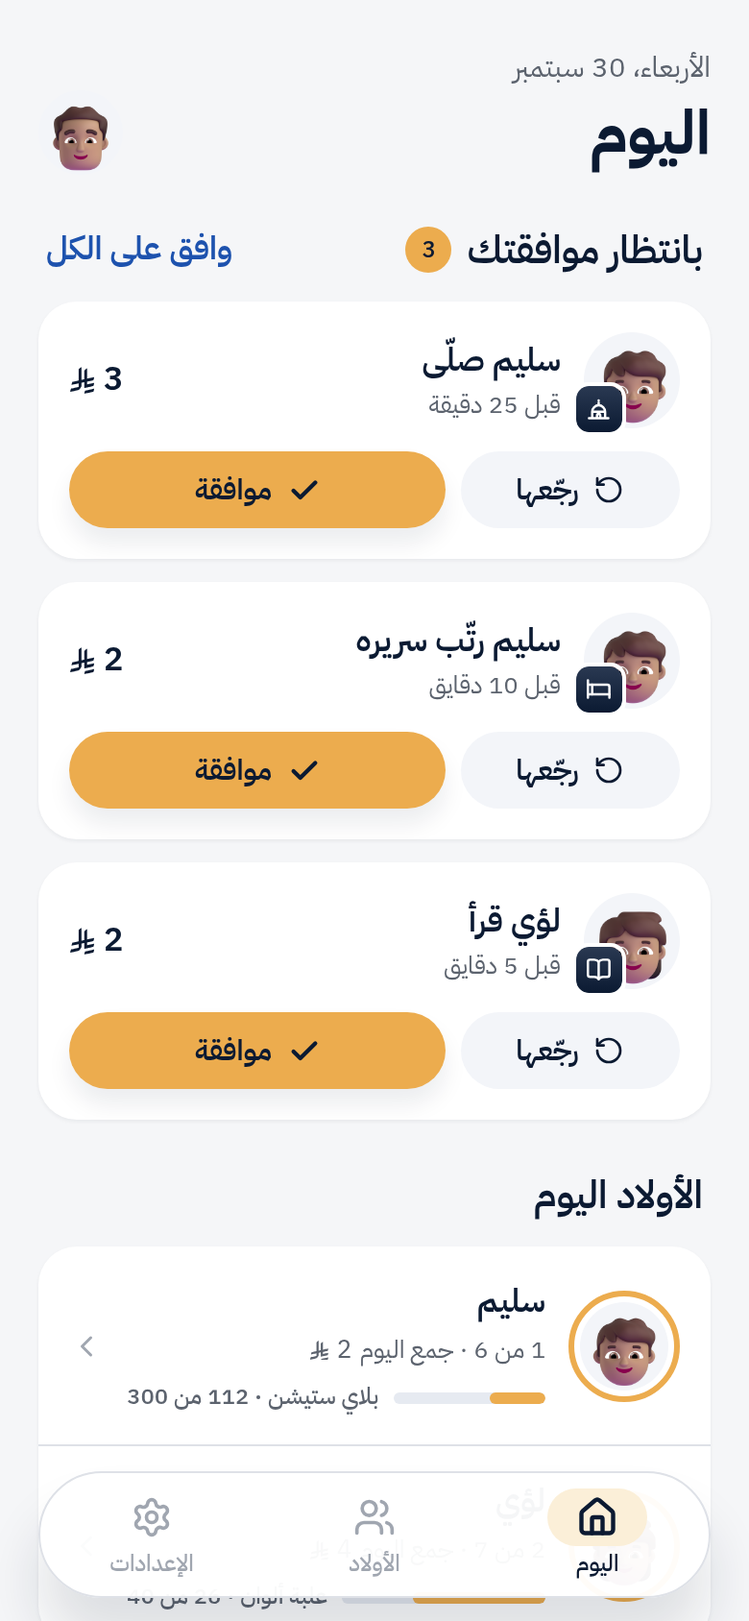
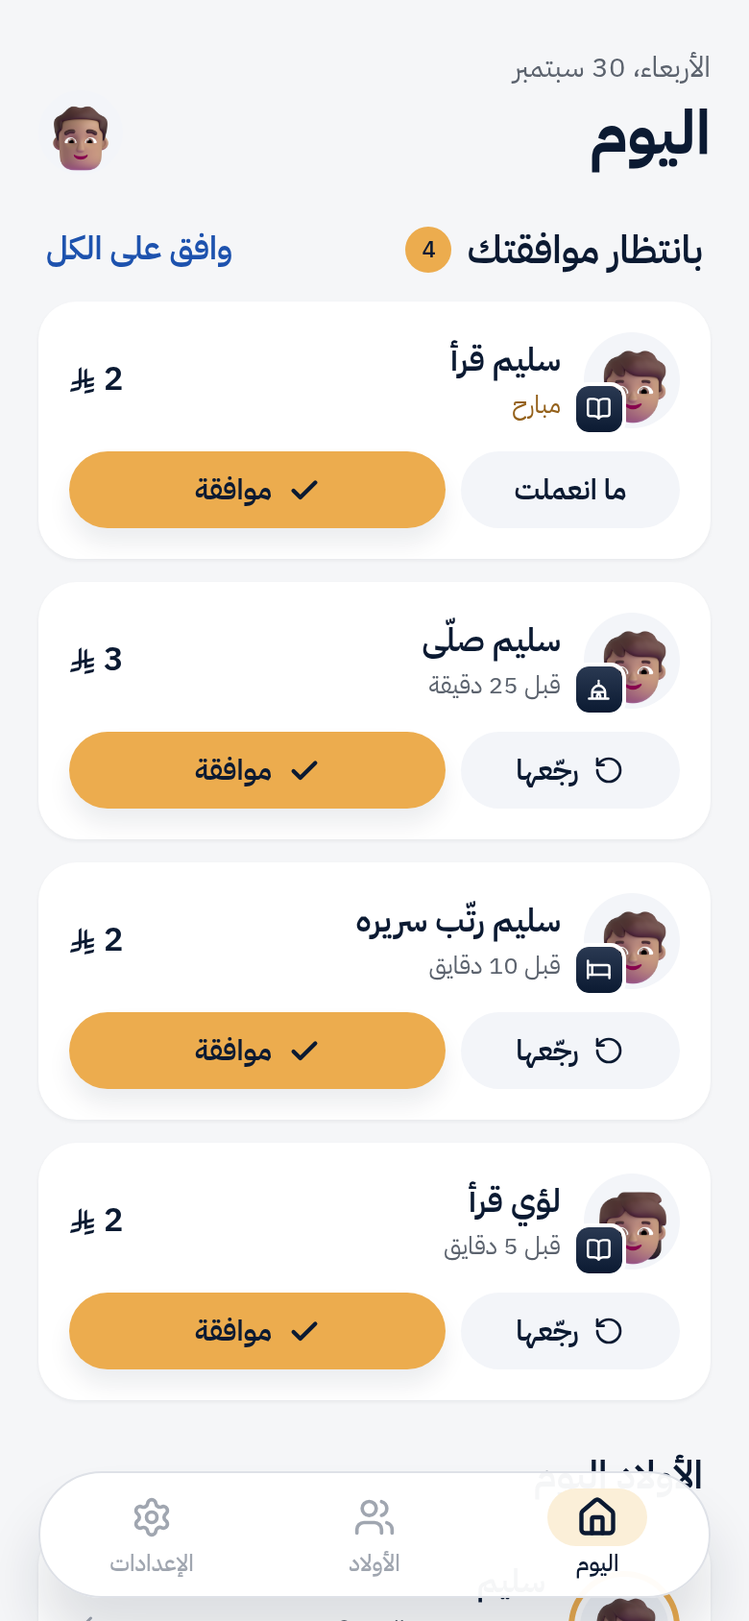
New day at local midnight: carry unapproved tasks, keep a daily log, week view for child and parent; simpler wording
Claude-Session: https://claude.ai/code/session_01RDAVNZzgeCwRhwwmPPkyYB

diff --git a/app/src/state/store.ts b/app/src/state/store.ts
@@ -27,7 +27,14 @@ export type Child = {
   balance: number;
   today: Record<string, { state: TaskState; at?: number; by?: Parent['role'] }>;   // task id → today's state, and which parent approved it
   approved: { taskId: string; at: number; reward: number; by?: Parent['role'] }[]; // history of approvals
+  day?: string;                                          // which day `today` belongs to (YYYY-MM-DD, local)
+  late?: LateTask[];                                     // finished on an earlier day, still waiting for a parent
+  log?: DayLog[];                                        // one line per past day, newest first (last 60 days)
 };
+/** A task the child finished on an earlier day that no parent approved before midnight. It is never lost. */
+export type LateTask = { id: string; taskId: string; name: string; did: string; icon: IconName; reward: number; date: string; at?: number };
+/** What a day looked like once it closed. */
+export type DayLog = { date: string; done: string[]; planned: number; earned: number };
 export type Parent = { name: string; role: 'بابا' | 'ماما'; avatar: AvatarKey; email?: string; via?: 'apple' | 'google' | 'email' };
 export type Surprise = { key: string; title?: string; icon?: IconName; condition: 'all' | 'manual'; status: 'armed' | 'earned'; seenBy: string[] };
 
@@ -60,6 +67,9 @@ type Actions = {
   markDone(childId: string, taskId: string): void;      // the child taps "خلّصت"
   undoDone(childId: string, taskId: string): void;
   approve(childId: string, taskId: string): void;
+  approveLate(childId: string, lateId: string): void;
+  dropLate(childId: string, lateId: string): void;
+  rollover(): void;                                  // close yesterday at local midnight
   sendBack(childId: string, taskId: string): void;
   armSurprise(s: { key: string; title: string; icon: IconName }, condition: 'all' | 'manual'): void;
   seeSurprise(childId: string): void;
@@ -68,6 +78,21 @@ type Actions = {
   setMode(mode: 'parent' | 'child', childId?: string): void;
   reset(): void;
 };
+
+/** Local calendar day, so a new day starts at midnight where the family lives. */
+export const dayKey = (d = new Date()) => `${d.getFullYear()}-${String(d.getMonth() + 1).padStart(2, '0')}-${String(d.getDate()).padStart(2, '0')}`;
+const planned = (c: Child, date: string) => { const w = (new Date(date + 'T12:00').getDay() + 1) % 7; return c.tasks.filter((t) => t.days[w]).length; };
+
+/** Close the child's last day: log what was done, carry what still waits for approval, and start fresh. */
+function closeDay(c: Child, today: string): Child {
+  if (c.day === today) return c;
+  if (!c.day) return { ...c, day: today };
+  const done = c.tasks.filter((t) => c.today[t.id]?.state === 'done');
+  const waiting: LateTask[] = c.tasks.filter((t) => c.today[t.id]?.state === 'waiting')
+    .map((t) => ({ id: uid(), taskId: t.id, name: t.name, did: t.did, icon: t.icon, reward: t.reward, date: c.day!, at: c.today[t.id]?.at }));
+  const entry: DayLog = { date: c.day, done: done.map((t) => t.name), planned: planned(c, c.day), earned: done.reduce((a, t) => a + t.reward, 0) };
+  return { ...c, day: today, today: {}, late: [...(c.late ?? []), ...waiting], log: [entry, ...(c.log ?? []).filter((d) => d.date !== entry.date)].slice(0, 60) };
+}
 
 const uid = () => Math.random().toString(36).slice(2, 10);
 const code = () => Array.from({ length: 6 }, () => '0123456789'[Math.floor(Math.random() * 10)]).join('');
@@ -83,12 +108,6 @@ export const templateToTask = (key: string): Task => {
   const t = TASK_TEMPLATES.find((x) => x.key === key)!;
   return { id: uid(), key: t.key, name: t.name, icon: t.icon, did: t.did, reward: t.reward, days: EVERY() };
 };
-
-/** "وافق بابا" / "وافقت ماما" */
-export const approvedBy = (by?: Parent['role']) => (by === 'ماما' ? 'وافقت ماما' : by === 'بابا' ? 'وافق بابا' : 'تم');
-/** Who the child is waiting for: one parent, or both once the other joined. */
-export const waitingFor = (p?: Parent, partnerJoined?: boolean) =>
-  partnerJoined ? `${p?.role === 'ماما' ? 'ماما أو بابا' : 'بابا أو ماما'}` : p?.role ?? 'بابا';
 
 /** What a surprise shows: its own title and icon, or the ready-made one it came from. */
 export function surpriseInfo(s?: Surprise): { icon: IconName; title: string } | undefined {
@@ -115,7 +134,7 @@ export const useFamily = create<Family & Actions>()(
       ...initial,
       setParent: (p) => set({ parent: p }),
       addChild: ({ name, age, avatar, photo }) =>
-        set((s) => ({ children: [...s.children, { id: uid(), name, age, avatar, photo, tasks: suggestedTasks(age), balance: 0, today: {}, approved: [] }] })),
+        set((s) => ({ children: [...s.children, { id: uid(), name, age, avatar, photo, tasks: suggestedTasks(age), balance: 0, today: {}, approved: [], day: dayKey(), late: [], log: [] }] })),
       removeChild: (id) => set((s) => ({ children: s.children.filter((c) => c.id !== id) })),
       addTask: (childId, t) => set((s) => mapChild(s, childId, (c) => ({ ...c, tasks: [...c.tasks, { ...t, id: uid() }] }))),
       removeTask: (childId, taskId) => set((s) => mapChild(s, childId, (c) => ({ ...c, tasks: c.tasks.filter((t) => t.id !== taskId) }))),
@@ -151,6 +170,19 @@ export const useFamily = create<Family & Actions>()(
           }
           return next;
         }),
+      approveLate: (childId, lateId) =>
+        set((s) => mapChild(s, childId, (c) => {
+          const l = c.late?.find((x) => x.id === lateId);
+          if (!l) return c;
+          const by = s.parent?.role;
+          return {
+            ...c, balance: c.balance + l.reward, late: c.late!.filter((x) => x.id !== lateId),
+            approved: [...c.approved, { taskId: l.taskId, at: Date.now(), reward: l.reward, by }],
+            log: (c.log ?? []).map((d) => (d.date === l.date ? { ...d, done: [...d.done, l.name], earned: d.earned + l.reward } : d)),
+          };
+        })),
+      dropLate: (childId, lateId) => set((s) => mapChild(s, childId, (c) => ({ ...c, late: (c.late ?? []).filter((x) => x.id !== lateId) }))),
+      rollover: () => set((s) => ({ children: s.children.map((c) => closeDay(c, dayKey())) })),
       sendBack: (childId, taskId) =>
         set((s) => mapChild(s, childId, (c) => ({ ...c, today: { ...c.today, [taskId]: { state: 'todo' } } }))),
       armSurprise: ({ key, title, icon }, condition) =>
@@ -187,7 +219,15 @@ export function seedDemoFamily() {
         i === 0
           ? { [t[0].id]: { state: 'done', at: Date.now() - 3600e3, by: 'ماما' }, [t[1].id]: { state: 'waiting', at: Date.now() - 10 * 60e3 }, [t[2].id]: { state: 'waiting', at: Date.now() - 25 * 60e3 } }
           : { [t[0].id]: { state: 'done', at: Date.now() - 3600e3, by: 'بابا' }, [t[1].id]: { state: 'done', at: Date.now() - 1800e3, by: 'ماما' }, [t[2].id]: { state: 'waiting', at: Date.now() - 5 * 60e3 } };
-      return { ...c, today, balance: i === 0 ? 112 : 26 };
+      const past = (n: number) => dayKey(new Date(Date.now() - n * 864e5));
+      const names = t.map((x) => x.name);
+      const log: DayLog[] = [1, 2, 3, 4, 5, 6].map((n) => {
+        const k = i === 0 ? [5, 6, 4, 6, 3, 6][n - 1] : [7, 5, 7, 6, 7, 4][n - 1];
+        const done = names.slice(0, Math.min(k, names.length));
+        return { date: past(n), done, planned: names.length, earned: t.filter((x) => done.includes(x.name)).reduce((a, x) => a + x.reward, 0) };
+      });
+      const late: LateTask[] = i === 0 ? [{ id: 'late1', taskId: t[3].id, name: t[3].name, did: t[3].did, icon: t[3].icon, reward: t[3].reward, date: past(1), at: Date.now() - 20 * 3600e3 }] : [];
+      return { ...c, today, balance: i === 0 ? 112 : 26, day: dayKey(), log, late };
     }),
   }));
 }

diff --git a/app/src/ui/child-view.tsx b/app/src/ui/child-view.tsx
@@ -1,9 +1,10 @@
 import { LinearGradient } from 'expo-linear-gradient';
-import { Check, Hourglass } from 'lucide-react-native';
+import { Check, Hourglass, Star } from 'lucide-react-native';
+import Svg, { Circle } from 'react-native-svg';
 import { useEffect, useRef, type ReactNode } from 'react';
 import { Animated, Pressable, StyleSheet, View } from 'react-native';
 
-import { approvedBy, useFamily, waitingFor, type Child, type TaskState } from '@/state/store';
+import { dayKey, type Child, type TaskState } from '@/state/store';
 import { success, tap } from '@/services/haptics';
 import { color, radius, shadow, space } from '@/theme/tokens';
 import { Avatar, Glyph, Money, Progress, T } from '@/ui/kit';
@@ -15,8 +16,6 @@ const greeting = () => (new Date().getHours() < 12 ? 'صباح الخير' : 'م
  * Icon first, then the picture, then the number, then the word, so a 6-year-old can use it.
  */
 export function ChildView({ child, preview, onTask, headerEnd }: { child: Child; preview?: boolean; onTask?: (taskId: string, state: TaskState) => void; headerEnd?: ReactNode }) {
-  const parent = useFamily((s) => s.parent);
-  const joined = useFamily((s) => s.partnerJoined);
   const g = child.goal;
   const pct = g ? child.balance / g.amount : 0;
   const state = (id: string, i: number): TaskState => (preview ? (i === 0 ? 'waiting' : 'todo') : child.today[id]?.state ?? 'todo');
@@ -52,10 +51,12 @@ export function ChildView({ child, preview, onTask, headerEnd }: { child: Child;
         </LinearGradient>
       ) : null}
 
+      <Week child={child} />
+
       <T v="title3">مهامي اليوم</T>
       <View style={st.grid}>
         {child.tasks.map((t, i) => (
-          <TaskTile key={t.id} name={t.name} icon={t.icon} reward={t.reward} state={state(t.id, i)} parentWord={waitingFor(parent, joined)} doneWord={approvedBy(child.today[t.id]?.by)}
+          <TaskTile key={t.id} name={t.name} icon={t.icon} reward={t.reward} state={state(t.id, i)}
             onPress={preview || !onTask ? undefined : () => onTask(t.id, state(t.id, i))} />
         ))}
       </View>
@@ -63,8 +64,8 @@ export function ChildView({ child, preview, onTask, headerEnd }: { child: Child;
   );
 }
 
-function TaskTile({ name, icon, reward, state, parentWord, doneWord, onPress }:
-  { name: string; icon: Parameters<typeof Glyph>[0]['name']; reward: number; state: TaskState; parentWord: string; doneWord: string; onPress?: () => void }) {
+function TaskTile({ name, icon, reward, state, onPress }:
+  { name: string; icon: Parameters<typeof Glyph>[0]['name']; reward: number; state: TaskState; onPress?: () => void }) {
   const pop = useRef(new Animated.Value(1)).current;
   const prev = useRef(state);
   useEffect(() => {
@@ -85,8 +86,8 @@ function TaskTile({ name, icon, reward, state, parentWord, doneWord, onPress }:
         ) : null}
         <View style={{ opacity: state === 'done' ? 0.45 : 1 }}><Glyph name={icon} size={64} /></View>
         <T v="headline" center numberOfLines={1} c={state === 'done' ? color.text2 : color.text}>{name}</T>
-        {state === 'waiting' ? <T v="caption" c={color.gold700}>{`بانتظار ${parentWord}`}</T>
-          : state === 'done' ? <T v="caption" c={color.successText}>{doneWord}</T>
+        {state === 'waiting' ? <T v="caption" c={color.gold700}>بانتظار الموافقة</T>
+          : state === 'done' ? <T v="caption" c={color.successText}>تمّت</T>
           : <Money n={reward} v="caption" c={color.text2} />}
       </Animated.View>
     </Pressable>
@@ -95,9 +96,47 @@ function TaskTile({ name, icon, reward, state, parentWord, doneWord, onPress }:
 
 const st = StyleSheet.create({
   goal: { borderRadius: 26, padding: space.l, ...shadow.e2 },
+  week: { flexDirection: 'row', justifyContent: 'space-between', backgroundColor: color.white, borderRadius: radius.card, padding: space.m, borderWidth: 1, borderColor: color.border },
   grid: { flexDirection: 'row', flexWrap: 'wrap', justifyContent: 'space-between', rowGap: space.m },
   tile: { alignItems: 'center', gap: space.s, paddingTop: space.l, paddingBottom: space.m, borderRadius: radius.card + 4, backgroundColor: color.white, borderWidth: 2, borderColor: color.border, minHeight: 150 },
   wait: { backgroundColor: color.gold50, borderColor: color.gold },
   done: { backgroundColor: color.successBg, borderColor: 'transparent' },
   badge: { position: 'absolute', top: 10, start: 10, width: 30, height: 30, borderRadius: 15, alignItems: 'center', justifyContent: 'center' },
 });
+
+/** A small ring: how much of a day's tasks got done. Full days get a gold star. */
+export function DayRing({ done, planned, size = 36, today }: { done: number; planned: number; size?: number; today?: boolean }) {
+  const p = planned ? Math.min(1, done / planned) : 0;
+  const r = size / 2 - 3, len = 2 * Math.PI * r;
+  if (p >= 1) return <View style={{ width: size, height: size, borderRadius: size / 2, backgroundColor: color.gold, alignItems: 'center', justifyContent: 'center' }}><Star size={size * 0.5} color={color.navy} fill={color.navy} /></View>;
+  return (
+    <Svg width={size} height={size} style={{ transform: [{ rotate: '-90deg' }] }}>
+      <Circle cx={size / 2} cy={size / 2} r={r} stroke={today ? color.navy300 : color.navy100} strokeWidth={4} fill="none" strokeDasharray={today ? '3 4' : undefined} />
+      {p > 0 ? <Circle cx={size / 2} cy={size / 2} r={r} stroke={color.gold} strokeWidth={4} fill="none" strokeLinecap="round" strokeDasharray={`${len * p} ${len}`} /> : null}
+    </Svg>
+  );
+}
+
+const LETTER = ['ح', 'ن', 'ث', 'ر', 'خ', 'ج', 'س'];
+/** "أسبوعي": the last seven days, today last. Each day stands alone: tomorrow is always a fresh start. */
+function Week({ child }: { child: Child }) {
+  const days = Array.from({ length: 7 }, (_, i) => { const d = new Date(Date.now() - (6 - i) * 864e5); return { key: dayKey(d), letter: LETTER[d.getDay()] }; });
+  const todayDone = child.tasks.filter((t) => child.today[t.id]?.state === 'done').length;
+  return (
+    <View style={{ gap: space.s }}>
+      <T v="title3">أسبوعي</T>
+      <View style={st.week}>
+        {days.map((d, i) => {
+          const isToday = i === 6;
+          const log = child.log?.find((x) => x.date === d.key);
+          return (
+            <View key={d.key} style={{ alignItems: 'center', gap: 4 }}>
+              <DayRing done={isToday ? todayDone : log?.done.length ?? 0} planned={isToday ? child.tasks.length : log?.planned ?? 0} today={isToday} />
+              <T v="caption" c={isToday ? color.text : color.text2}>{isToday ? 'اليوم' : d.letter}</T>
+            </View>
+          );
+        })}
+      </View>
+    </View>
+  );
+}

diff --git a/app/src/app/(parent)/today.tsx b/app/src/app/(parent)/today.tsx
@@ -3,7 +3,9 @@ import { Check, ChevronLeft, RotateCcw } from 'lucide-react-native';
 import { Pressable, StyleSheet, View } from 'react-native';
 
 import { success } from '@/services/haptics';
-import { doneCount, earnedToday, useFamily, type Child, type Task, surpriseInfo } from '@/state/store';
+import { doneCount, earnedToday, useFamily, type Child, type LateTask, type Task, surpriseInfo } from '@/state/store';
+import type { IconName } from '@/ui/icons';
+import { dayName } from '@/ui/brand';
 import { color, radius, shadow, space } from '@/theme/tokens';
 import { Avatar, Button, Card, Glyph, Money, Progress, Screen, T } from '@/ui/kit';
 import { toast } from '@/ui/toast';
@@ -15,17 +17,23 @@ const ago = (at?: number) => {
 };
 const today = new Intl.DateTimeFormat('ar', { weekday: 'long', day: 'numeric', month: 'long', numberingSystem: 'latn' } as Intl.DateTimeFormatOptions).format(new Date());
 
+type Pending = { c: Child; key: string; did: string; icon: IconName; reward: number; at?: number; t?: Task; late?: LateTask };
+
 export default function Today() {
-  const { children, parent, approve, sendBack, surprise, clearSurprise } = useFamily();
-  const pending: { c: Child; t: Task; at?: number }[] = [];
-  children.forEach((c) => c.tasks.forEach((t) => { if (c.today[t.id]?.state === 'waiting') pending.push({ c, t, at: c.today[t.id]?.at }); }));
+  const { children, parent, approve, approveLate, dropLate, sendBack, surprise, clearSurprise } = useFamily();
+  // today's finished tasks, plus any from earlier days nobody approved yet (oldest first)
+  const pending: Pending[] = [];
+  children.forEach((c) => {
+    (c.late ?? []).forEach((l) => pending.push({ c, key: l.id, did: l.did, icon: l.icon, reward: l.reward, at: l.at, late: l }));
+    c.tasks.forEach((t) => { if (c.today[t.id]?.state === 'waiting') pending.push({ c, key: t.id, did: t.did, icon: t.icon, reward: t.reward, at: c.today[t.id]?.at, t }); });
+  });
   pending.sort((a, b) => (a.at ?? 0) - (b.at ?? 0));
 
   /** One tap approves. No Face ID: either parent approves, and the child simply sees who did. */
   const ok = (list: typeof pending) => {
-    list.forEach(({ c, t }) => approve(c.id, t.id));
+    list.forEach(({ c, t, late }) => (late ? approveLate(c.id, late.id) : t && approve(c.id, t.id)));
     success();
-    const total = list.reduce((a, x) => a + x.t.reward, 0);
+    const total = list.reduce((a, x) => a + x.reward, 0);
     toast(<><Check size={16} color={color.gold} strokeWidth={3} /><T v="subhead" c={color.white}>{list.length > 1 ? `وافقت على ${list.length} مهام ·` : `انضافوا لمكمورة ${list[0].c.name}`}</T><Money n={total} v="subhead" c={color.white} /></>);
   };
   const sur = surpriseInfo(surprise);
@@ -46,23 +54,26 @@ export default function Today() {
       </View>
       {pending.length ? (
         <View style={{ gap: space.m }}>
-          {pending.map(({ c, t, at }) => (
-            <Card key={c.id + t.id} style={{ gap: space.m }}>
+          {pending.map((p) => { const { c, key, did, icon, reward, at, late } = p; return (
+            <Card key={c.id + key} style={{ gap: space.m }}>
               <View style={{ flexDirection: 'row', alignItems: 'center', gap: space.m }}>
                 <View>
                   <Avatar avatar={c.avatar} photo={c.photo} size={50} />
-                  <View style={st.mini}><Glyph name={t.icon} size={24} /></View>
+                  <View style={st.mini}><Glyph name={icon} size={24} /></View>
                 </View>
-                <View style={{ flex: 1 }}><T v="headline">{`${c.name} ${t.did}`}</T><T v="footnote" c={color.text2}>{ago(at)}</T></View>
-                <Money n={t.reward} v="headline" />
+                <View style={{ flex: 1 }}><T v="headline">{`${c.name} ${did}`}</T>
+                  {late ? <T v="footnote" c={color.gold700}>{dayName(late.date)}</T> : <T v="footnote" c={color.text2}>{ago(at)}</T>}</View>
+                <Money n={reward} v="headline" />
               </View>
               <View style={{ flexDirection: 'row', gap: space.s }}>
-                <Button small kind="tinted" title="رجّعها" icon={<RotateCcw size={16} color={color.navy} />} style={{ flex: 1 }}
-                  onPress={() => { sendBack(c.id, t.id); toast(<T v="subhead" c={color.white}>{`رجعت المهمة لـ${c.name} ليعيدها`}</T>); }} />
-                <Button small title="موافقة" icon={<Check size={17} color={color.navy} strokeWidth={3} />} style={{ flex: 2 }} onPress={() => ok([{ c, t, at }])} />
+                {late
+                  ? <Button small kind="tinted" title="ما انعملت" style={{ flex: 1 }} onPress={() => dropLate(c.id, late.id)} />
+                  : <Button small kind="tinted" title="رجّعها" icon={<RotateCcw size={16} color={color.navy} />} style={{ flex: 1 }}
+                      onPress={() => { sendBack(c.id, key); toast(<T v="subhead" c={color.white}>{`رجعت المهمة لـ${c.name} ليعيدها`}</T>); }} />}
+                <Button small title="موافقة" icon={<Check size={17} color={color.navy} strokeWidth={3} />} style={{ flex: 2 }} onPress={() => ok([p])} />
               </View>
             </Card>
-          ))}
+          ); })}
         </View>
       ) : (
         <Card style={{ flexDirection: 'row', alignItems: 'center', gap: space.m, paddingVertical: space.xl }}>

diff --git a/app/src/app/kid/[id].tsx b/app/src/app/kid/[id].tsx
@@ -3,9 +3,10 @@ import { Check, Hourglass, Pencil } from 'lucide-react-native';
 import { LinearGradient } from 'expo-linear-gradient';
 import { StyleSheet, View } from 'react-native';
 
-import { approvedBy, useFamily } from '@/state/store';
+import { useFamily } from '@/state/store';
 import { color, shadow, space } from '@/theme/tokens';
-import { days, daysLabel, years } from '@/ui/brand';
+import { dayName, days, daysLabel, years } from '@/ui/brand';
+import { DayRing } from '@/ui/child-view';
 import { Avatar, Button, Card, Glyph, Group, Money, NavBar, Progress, Row, Screen, SectionLabel, T } from '@/ui/kit';
 
 /** One child: savings, goal, and today's tasks with their state. Editing reuses the setup screens. */
@@ -64,11 +65,22 @@ export default function Kid() {
         {c.tasks.map((t) => {
           const s = c.today[t.id]?.state ?? 'todo';
           return (
-            <Row key={t.id} lead={<Glyph name={t.icon} />} title={t.name} sub={s === 'done' ? <T v="footnote" c={color.successText}>{approvedBy(c.today[t.id]?.by)}</T> : daysLabel(t.days)}
+            <Row key={t.id} lead={<Glyph name={t.icon} />} title={t.name} sub={s === 'done' ? <T v="footnote" c={color.successText}>تمّت</T> : daysLabel(t.days)}
               end={s === 'done' ? <Check size={20} color={color.success} strokeWidth={3} /> : s === 'waiting' ? <Hourglass size={18} color={color.gold700} /> : <Money n={t.reward} v="subhead" c={color.text2} />} />
           );
         })}
       </Group>
+      {c.log?.length ? (
+        <>
+          <SectionLabel>آخر 7 أيام</SectionLabel>
+          <Group>
+            {c.log.slice(0, 7).map((d) => (
+              <Row key={d.date} lead={<DayRing done={d.done.length} planned={d.planned} />} title={dayName(d.date)}
+                sub={`${d.done.length} من ${d.planned} مهام`} end={<Money n={d.earned} v="subhead" c={color.text2} />} />
+            ))}
+          </Group>
+        </>
+      ) : null}
       <View style={{ gap: space.s, marginTop: space.xl }}>
         <Button kind="tinted" title="تعديل المهام" icon={<Pencil size={16} color={color.navy} />} onPress={() => router.push({ pathname: '/setup/[id]/tasks', params: { id: c.id, edit: '1' } })} />
         <Button kind="tinted" title="تعديل المكافآت" onPress={() => router.push({ pathname: '/setup/[id]/rewards', params: { id: c.id, edit: '1' } })} />

diff --git a/app/src/app/_layout.tsx b/app/src/app/_layout.tsx
@@ -5,10 +5,11 @@ import { Stack } from 'expo-router';
 import * as SplashScreen from 'expo-splash-screen';
 import { StatusBar } from 'expo-status-bar';
 import { useEffect } from 'react';
-import { I18nManager, Platform } from 'react-native';
+import { AppState, I18nManager, Platform } from 'react-native';
 import { SafeAreaProvider } from 'react-native-safe-area-context';
 
 import { initPurchases } from '@/services/purchases';
+import { useFamily } from '@/state/store';
 import { color } from '@/theme/tokens';
 import { ToastHost } from '@/ui/toast';
 
@@ -22,6 +23,15 @@ SplashScreen.preventAutoHideAsync();
 export default function RootLayout() {
   const [loaded] = useFonts({ IBMPlexSansArabic_400Regular, IBMPlexSansArabic_500Medium, IBMPlexSansArabic_600SemiBold, IBMPlexSansArabic_700Bold });
   useEffect(() => { initPurchases(); }, []);
+  // A new day starts at local midnight: check after loading, when the app comes back, and once a minute.
+  useEffect(() => {
+    const roll = () => { if (useFamily.persist.hasHydrated()) useFamily.getState().rollover(); };
+    roll();
+    const offH = useFamily.persist.onFinishHydration(roll);
+    const sub = AppState.addEventListener('change', (st) => st === 'active' && roll());
+    const timer = setInterval(roll, 60e3);
+    return () => { offH(); sub.remove(); clearInterval(timer); };
+  }, []);
   useEffect(() => { if (loaded) SplashScreen.hideAsync(); }, [loaded]);
   if (!loaded) return null;
   return (

diff --git a/app/src/app/child/home.tsx b/app/src/app/child/home.tsx
@@ -11,7 +11,7 @@ import { toast } from '@/ui/toast';
 
 /** The child's device: one screen, no tabs. Tap a task when it's done; a parent approves it. */
 export default function ChildHome() {
-  const { children, activeChildId, markDone, undoDone, parent, partnerJoined, surprise, seeSurprise, setMode } = useFamily();
+  const { children, activeChildId, markDone, undoDone, surprise, seeSurprise, setMode } = useFamily();
   const child = children.find((c) => c.id === activeChildId);
   if (!child) return null;
   const sur = surpriseInfo(surprise);
@@ -26,7 +26,7 @@ export default function ChildHome() {
             <Lock size={14} color={color.navy} strokeWidth={2.4} /><T v="footnote" c={color.navy}>للأهل</T>
           </Pressable>
         } onTask={(id, state) => {
-          if (state === 'todo') { markDone(child.id, id); toast(<T v="subhead" c={color.white}>{`برافو! بعتناها لـ${partnerJoined ? (parent?.role === 'ماما' ? 'ماما وبابا' : 'بابا وماما') : parent?.role ?? 'بابا'}`}</T>); }
+          if (state === 'todo') { markDone(child.id, id); toast(<T v="subhead" c={color.white}>{'برافو! بانتظار الموافقة'}</T>); }
           else if (state === 'waiting') undoDone(child.id, id);
         }} />
       </View>

diff --git a/app/src/ui/brand.tsx b/app/src/ui/brand.tsx
@@ -60,3 +60,13 @@ export const tasksN = (n: number) => count(n, 'مهمة', 'مهام');
 export const SCHOOL = [true, true, true, true, true, false, false];
 export const daysLabel = (d: boolean[]) =>
   d.every(Boolean) ? 'كل يوم' : d.join() === SCHOOL.join() ? 'أيام المدرسة' : `${days(d.filter(Boolean).length)} بالأسبوع`;
+
+/** "اليوم", "مبارح", or the weekday name for an older day. */
+export function dayName(date: string) {
+  const d = new Date(date + 'T12:00');
+  const now = new Date(); now.setHours(12, 0, 0, 0);
+  const diff = Math.round((now.getTime() - d.getTime()) / 864e5);
+  if (diff <= 0) return 'اليوم';
+  if (diff === 1) return 'مبارح';
+  return ['الأحد', 'الاثنين', 'الثلاثاء', 'الأربعاء', 'الخميس', 'الجمعة', 'السبت'][d.getDay()];
+}
